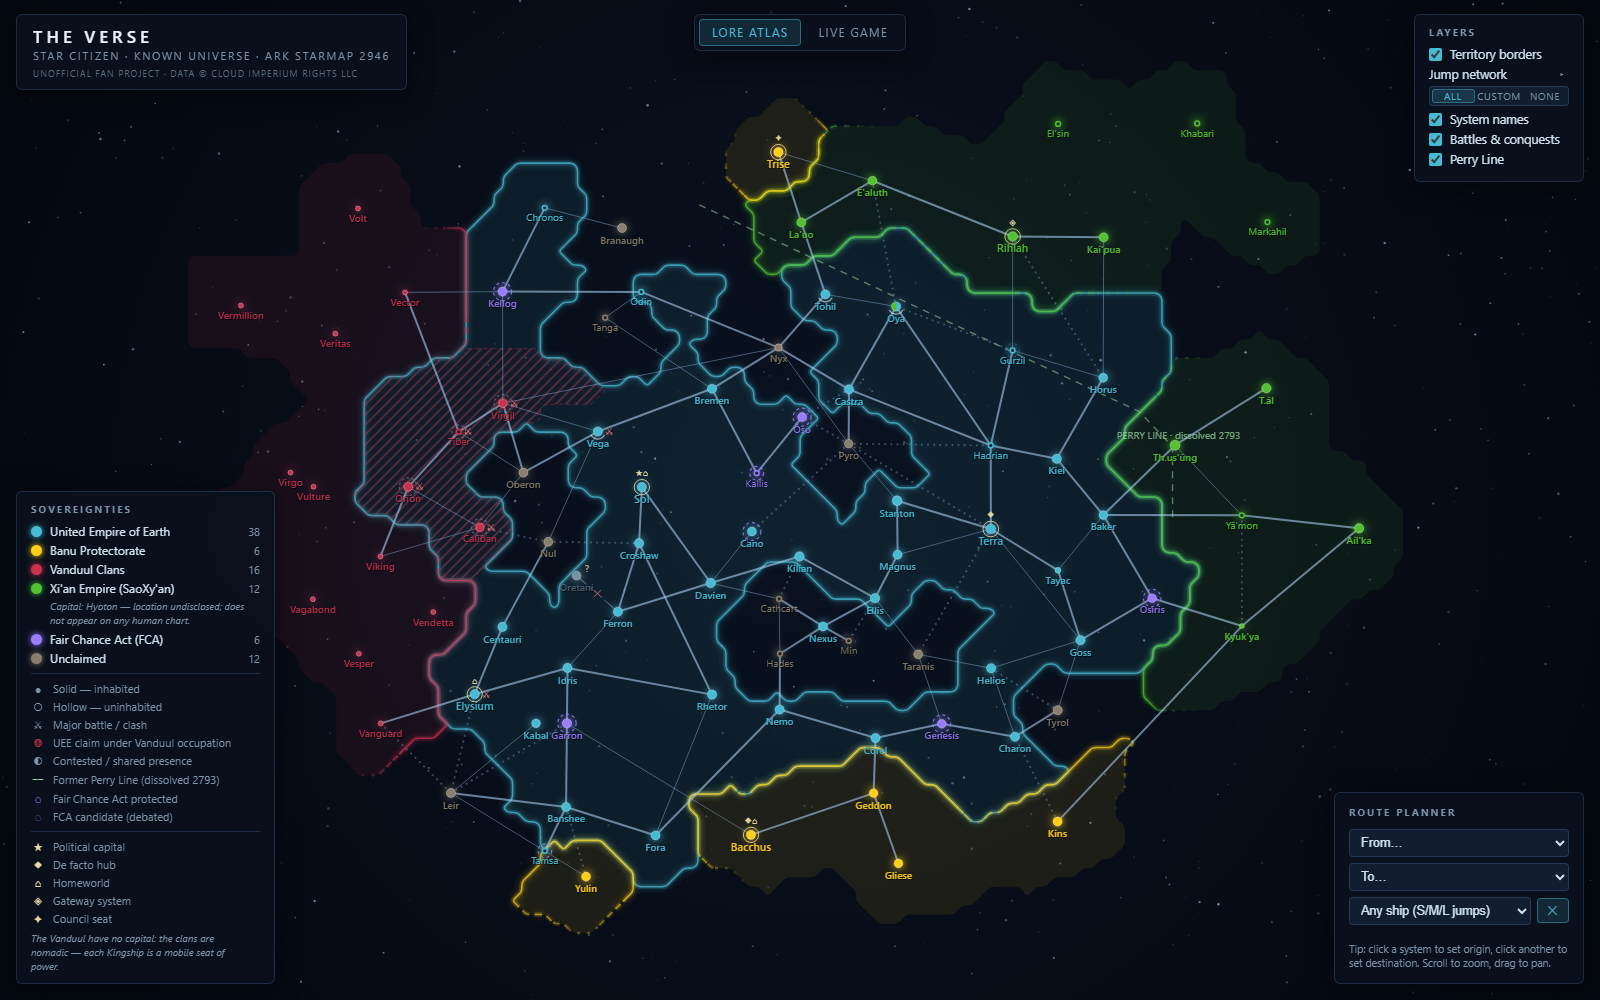
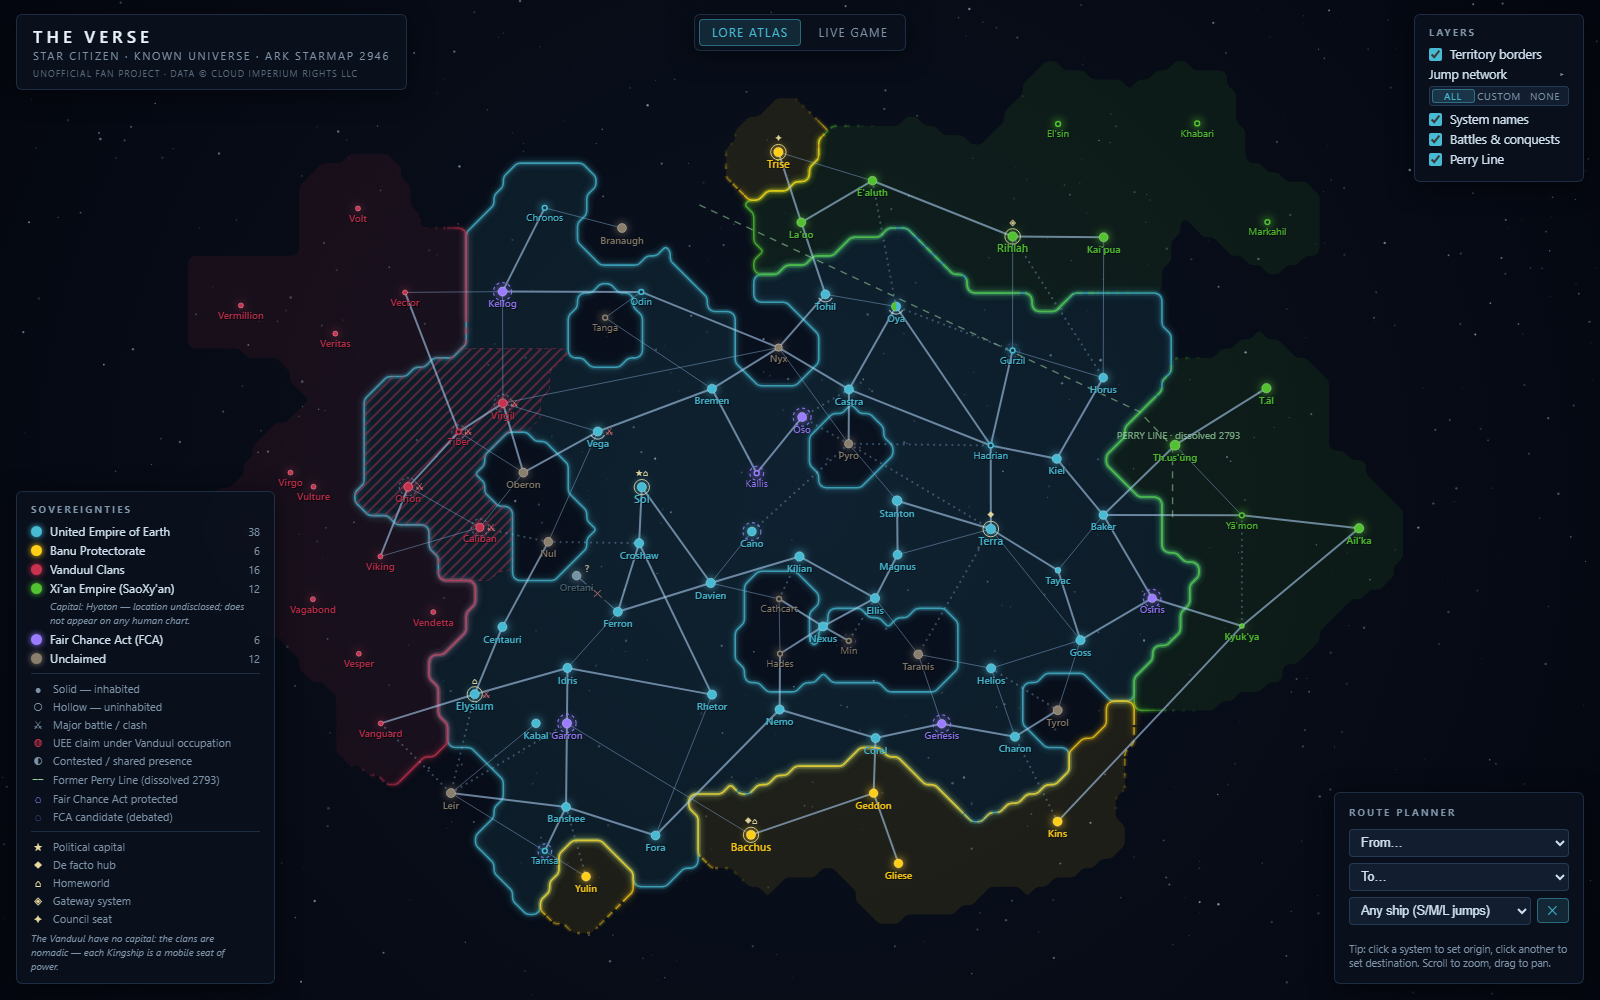
Shrink interior unclaimed enclaves to Stellaris-style pockets
- UNCLAIMED_WEIGHT (3x) decays unclaimed influence beyond the
  guaranteed POCKET radius, so surrounded systems keep only a small
  visible halo while frontier neutral space is untouched; the
  radius-5 pocket assertions pass unchanged.
- Lanes with an unclaimed endpoint no longer generate seed points, so
  no null corridors thread between unclaimed neighbors.
- Enclave check added to dev/test_territory.js: interior non-owned
  regions (not connected to the outer void) are capped at
  N x pi x 8^2 world units for N unclaimed systems in the region;
  passes both occupation variants (Cathcart cluster 684/804,
  Pyro 188/201, Nul+Oberon 395/402, Tanga, Tyrol). Island budgets
  unchanged and passing.

diff --git a/dev/test_territory.js b/dev/test_territory.js
@@ -64,6 +64,45 @@ for(const style of ['claim', 'local']){
     const lb=label[i+j*nx];
     if(lb>=0) (members[lb]=members[lb]||[]).push(s.name);
   }
+  // interior unclaimed enclaves must be small pockets: flood-fill each
+  // unclaimed system's contiguous non-owned region; if it does not reach the
+  // outer map void, its area is capped at N * pi * 8^2 (N = unclaimed systems in it)
+  {
+    const rid=new Int32Array(nx*ny).fill(-1);
+    let nr=0;
+    const touchesEdge=[];
+    for(let k0=0;k0<nx*ny;k0++){
+      if(grid[k0]!==null || rid[k0]>=0) continue;
+      const r=nr++; let edge=false;
+      const stack=[k0]; rid[k0]=r;
+      while(stack.length){
+        const k=stack.pop(), i=k%nx, j=(k-i)/nx;
+        if(i===0||j===0||i===nx-1||j===ny-1) edge=true;
+        for(const [di,dj] of [[1,0],[-1,0],[0,1],[0,-1]]){
+          const i2=i+di, j2=j+dj;
+          if(i2<0||j2<0||i2>=nx||j2>=ny) continue;
+          const k2=i2+j2*nx;
+          if(rid[k2]<0 && grid[k2]===null){ rid[k2]=r; stack.push(k2); }
+        }
+      }
+      touchesEdge[r]=edge;
+    }
+    const area=new Float64Array(nr), uncNames={};
+    for(let k=0;k<nx*ny;k++) if(rid[k]>=0) area[rid[k]]+=GRID*GRID;
+    for(const s of DATA.systems.filter(s=>s.aff==='UNC')){
+      const i=Math.round((s.x-minX)/GRID), j=Math.round((s.y-minY)/GRID);
+      const r=rid[i+j*nx];
+      if(r>=0) (uncNames[r]=uncNames[r]||[]).push(s.name);
+    }
+    for(const [r, names] of Object.entries(uncNames)){
+      if(touchesEdge[r]) continue; // frontier neutral space is exempt
+      const cap = names.length * Math.PI * 8*8;
+      if(area[r] > cap){
+        console.error(`FAIL enclave ${style}: region {${names.join(', ')}} area ${area[r].toFixed(0)} > cap ${cap.toFixed(0)}`);
+        fails++;
+      } else console.log(`  enclave ${style}: {${names.join(', ')}} area ${area[r].toFixed(0)} <= ${cap.toFixed(0)} ok`);
+    }
+  }
   for(const [fac, budget] of Object.entries(ISLAND_BUDGET)){
     const n=counts[fac]||0;
     const ok = Array.isArray(budget) ? (n>=budget[0] && n<=budget[1]) : n<=budget;

diff --git a/index.html b/index.html
@@ -270,6 +270,8 @@ const TERRITORY = (function(){
   const LANE_STEP = 4;        // lane seeds interpolated this often along every jump lane
   const LANE_CLEAR = 8;       // void seeds also excluded this close to a lane seed (corridor width)
   const POCKET = 5.6;         // guaranteed neutral radius around unclaimed systems
+  const UNCLAIMED_WEIGHT = 3; // beyond POCKET, unclaimed influence decays this much
+                              // faster, so surrounded systems keep only a small halo
 
   /* the ONE ownership resolver — first match wins */
   function ownerOf(s, style){
@@ -290,6 +292,8 @@ const TERRITORY = (function(){
     (tunnels || []).forEach(t => {
       const a = byId[t.a], b = byId[t.b];
       if(!a || !b) return;
+      // lanes with an unclaimed endpoint get no seeds — no null corridors
+      if(ownerOf(a, style) === null || ownerOf(b, style) === null) return;
       const d = Math.hypot(b.x-a.x, b.y-a.y), n = Math.floor(d/LANE_STEP);
       for(let k=1; k<n; k++){
         const f = k/n, sys = f < 0.5 ? a : b;
@@ -332,7 +336,8 @@ const TERRITORY = (function(){
       let best=null, bd=Infinity;
       for(const sd of seeds){
         let d = Math.hypot(sd.x-x, sd.y-y);
-        if(sd.sys && !sd.lane && sd.owner===null) d = Math.max(0, d-POCKET);
+        // unclaimed systems: guaranteed pocket, then rapidly decaying influence
+        if(sd.sys && !sd.lane && sd.owner===null) d = Math.max(0, d-POCKET)*UNCLAIMED_WEIGHT;
         if(d<bd){ bd=d; best=sd; }
       }
       return best;

diff --git a/dev/territory.js b/dev/territory.js
@@ -15,6 +15,8 @@ const TERRITORY = (function(){
   const LANE_STEP = 4;        // lane seeds interpolated this often along every jump lane
   const LANE_CLEAR = 8;       // void seeds also excluded this close to a lane seed (corridor width)
   const POCKET = 5.6;         // guaranteed neutral radius around unclaimed systems
+  const UNCLAIMED_WEIGHT = 3; // beyond POCKET, unclaimed influence decays this much
+                              // faster, so surrounded systems keep only a small halo
 
   /* the ONE ownership resolver — first match wins */
   function ownerOf(s, style){
@@ -35,6 +37,8 @@ const TERRITORY = (function(){
     (tunnels || []).forEach(t => {
       const a = byId[t.a], b = byId[t.b];
       if(!a || !b) return;
+      // lanes with an unclaimed endpoint get no seeds — no null corridors
+      if(ownerOf(a, style) === null || ownerOf(b, style) === null) return;
       const d = Math.hypot(b.x-a.x, b.y-a.y), n = Math.floor(d/LANE_STEP);
       for(let k=1; k<n; k++){
         const f = k/n, sys = f < 0.5 ? a : b;
@@ -77,7 +81,8 @@ const TERRITORY = (function(){
       let best=null, bd=Infinity;
       for(const sd of seeds){
         let d = Math.hypot(sd.x-x, sd.y-y);
-        if(sd.sys && !sd.lane && sd.owner===null) d = Math.max(0, d-POCKET);
+        // unclaimed systems: guaranteed pocket, then rapidly decaying influence
+        if(sd.sys && !sd.lane && sd.owner===null) d = Math.max(0, d-POCKET)*UNCLAIMED_WEIGHT;
         if(d<bd){ bd=d; best=sd; }
       }
       return best;
